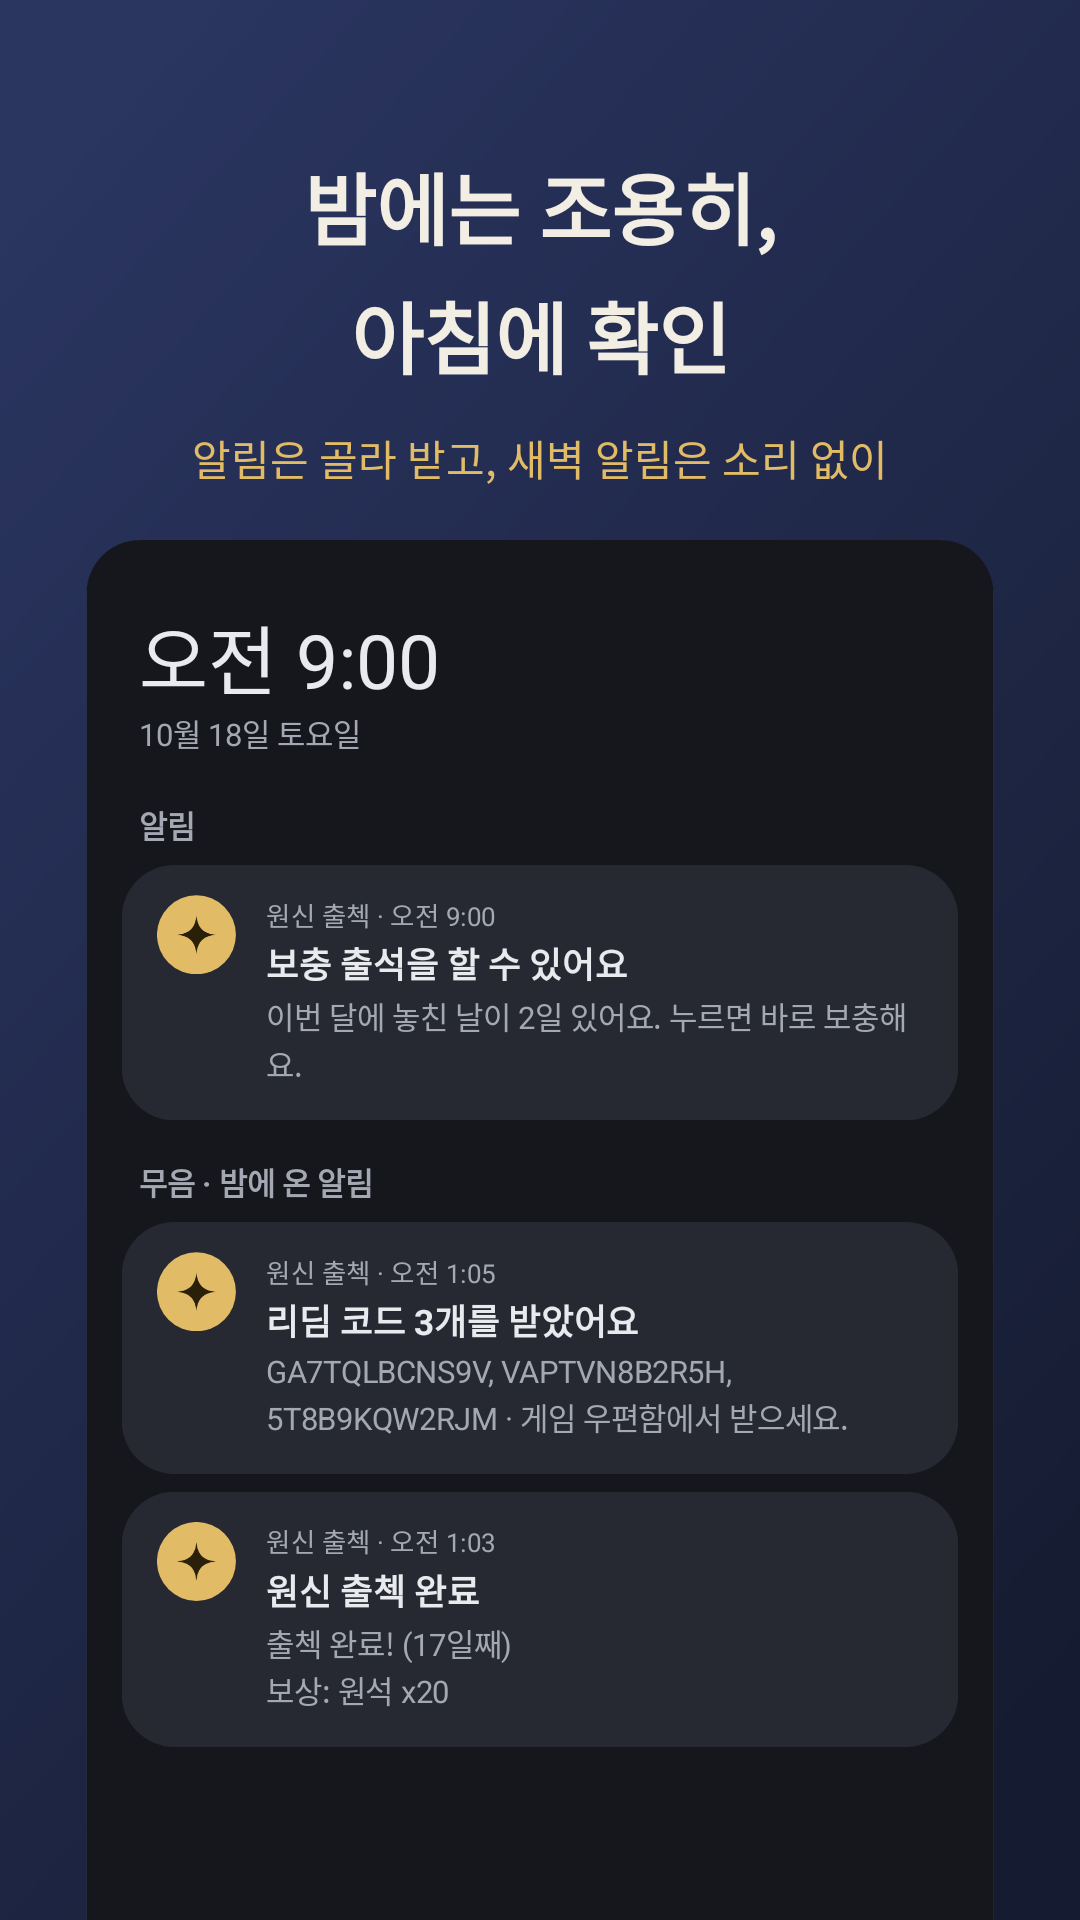
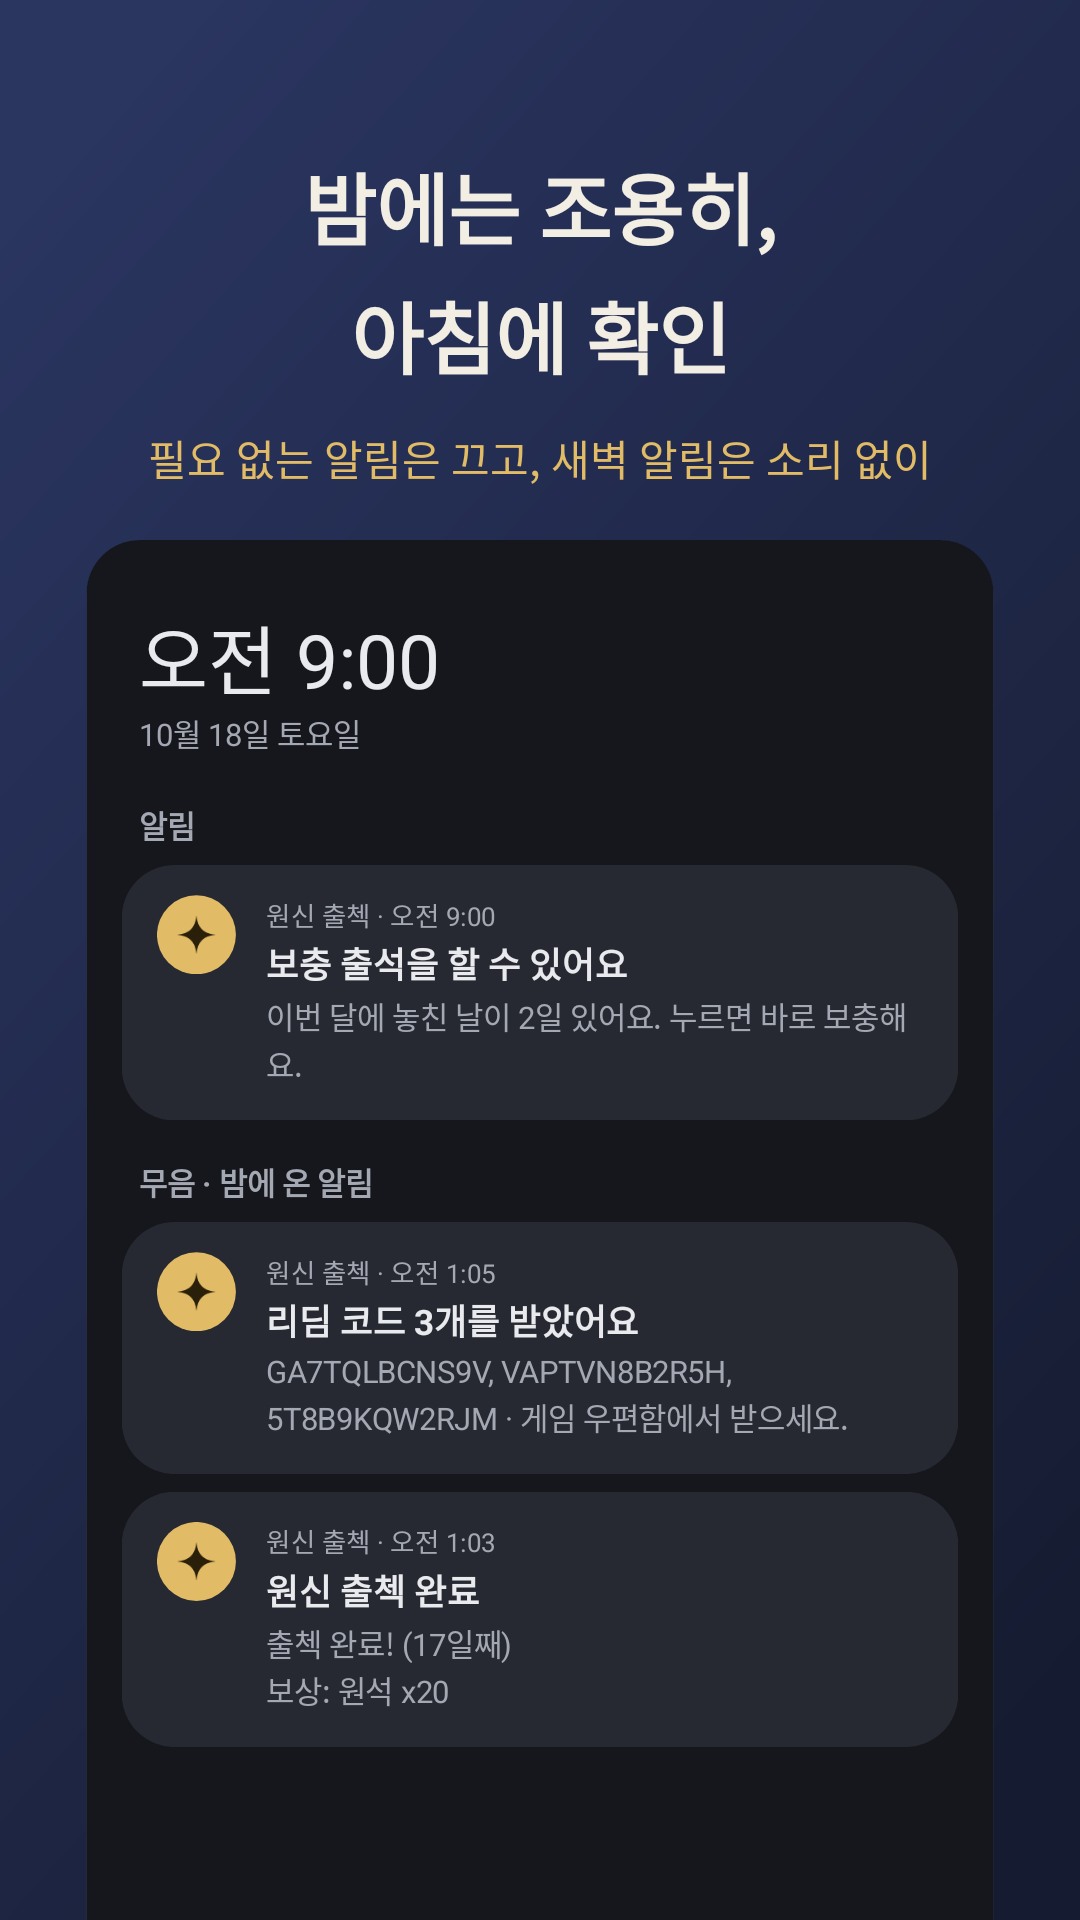
알림을 끌 수 있다는 점을 분명히(스토어 설명·알림 장면·소개 페이지)

Changed region(s): [[0.1222, 0.2188, 0.8556, 0.25]]

diff --git a/app/src/test/java/kr/sumi/checkin/StoreAssetsTest.kt b/app/src/test/java/kr/sumi/checkin/StoreAssetsTest.kt
@@ -314,7 +314,7 @@ class StoreAssetsTest {
 
     @Test fun screenshot5Alerts() = screenshot(
         signed, night = false, custom = { notificationShade(it) },
-        title = "밤에는 조용히,\n아침에 확인", sub = "알림은 골라 받고, 새벽 알림은 소리 없이",
+        title = "밤에는 조용히,\n아침에 확인", sub = "필요 없는 알림은 끄고, 새벽 알림은 소리 없이",
     )
 
     @Test fun screenshot6Dark() = screenshot(
@@ -349,7 +349,7 @@ class StoreAssetsTest {
 
     @Test fun tablet5Alerts() = screenshot(
         signed, night = false, custom = { notificationShade(it) }, tablet = true,
-        title = "밤에는 조용히,\n아침에 확인", sub = "알림은 골라 받고, 새벽 알림은 소리 없이",
+        title = "밤에는 조용히,\n아침에 확인", sub = "필요 없는 알림은 끄고, 새벽 알림은 소리 없이",
     )
 
     @Test fun tablet6Dark() = screenshot(

diff --git a/store/site/checkin/index.html b/store/site/checkin/index.html
@@ -61,7 +61,7 @@
     <li><strong>새벽 1시 자동 출석</strong> 폰 시계가 아니라 호요랩 서버 시각에 맞춰, 날짜가 바뀐 직후에 출석해요.</li>
     <li><strong>보상 내역</strong> 이번 달 받은 원석·모라와 리딤 코드로 받은 보상의 합계를 한눈에 봐요.</li>
     <li><strong>보충 출석</strong> 놓친 날이 있으면 알려 주고, 누르면 바로 보충해요.</li>
-    <li><strong>여러 계정, 알림 골라 받기</strong> 계정을 여러 개 등록할 수 있고, 알림을 골라 받으며 밤에는 소리 없이 알려요.</li>
+    <li><strong>여러 계정, 알림 골라 받기</strong> 계정을 여러 개 등록할 수 있어요. 알림은 종류별로 끌 수 있고, 켜 둔 알림도 밤에는 소리 없이 와요.</li>
   </ul>
 
   <h2>안심하고 쓰세요</h2>
